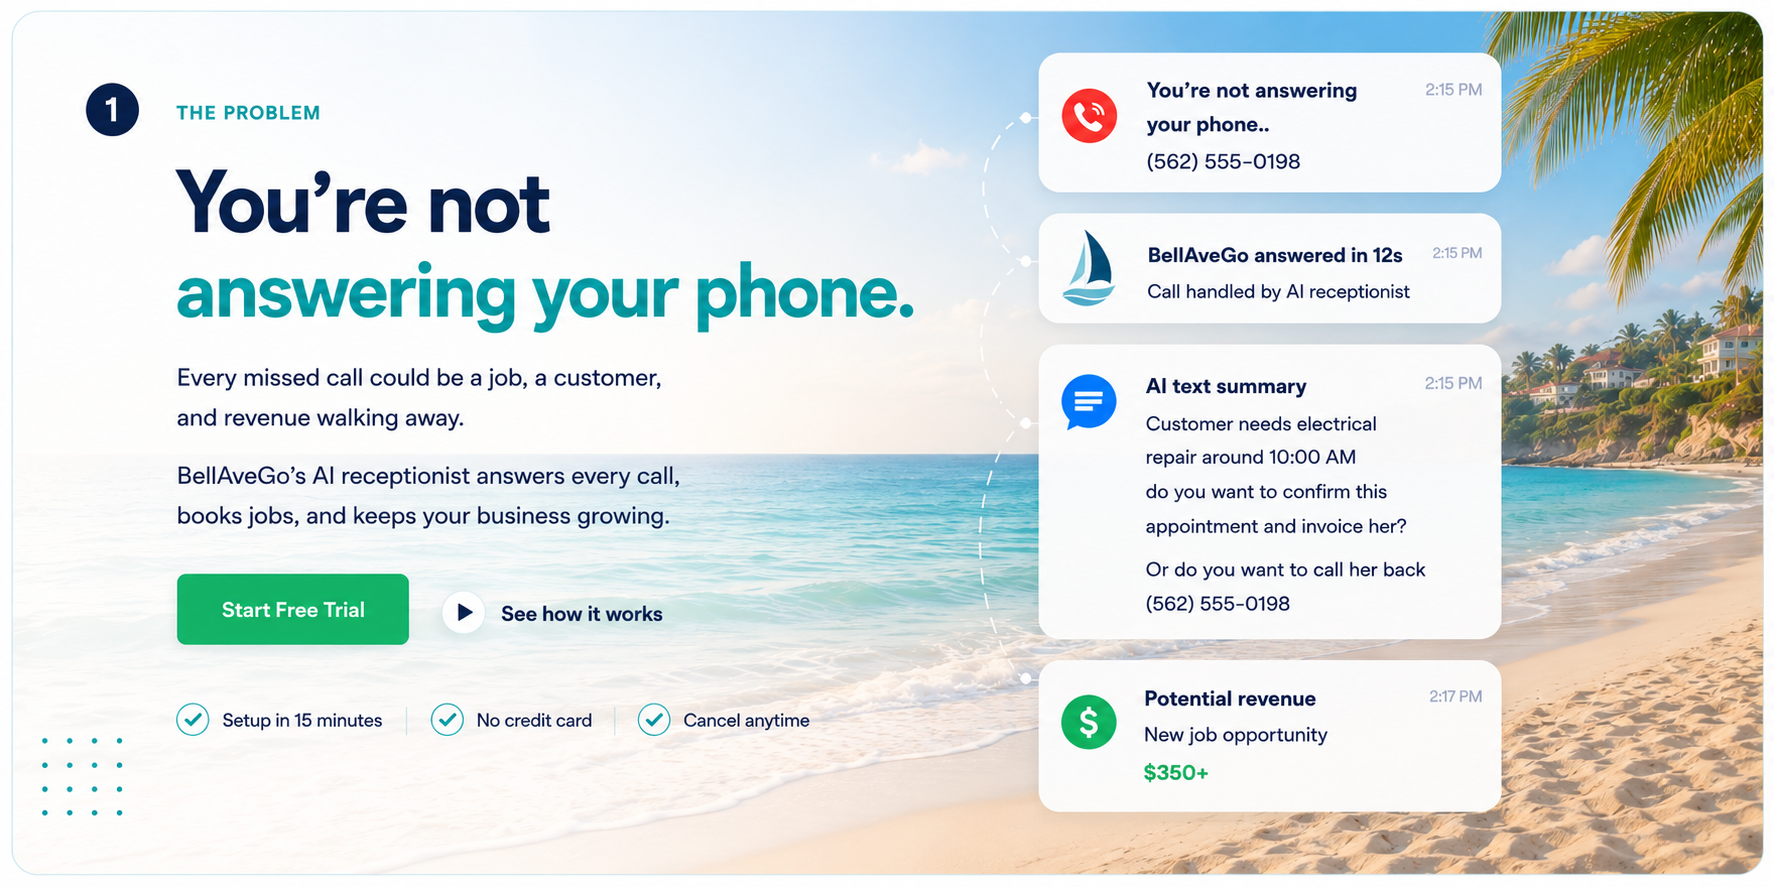
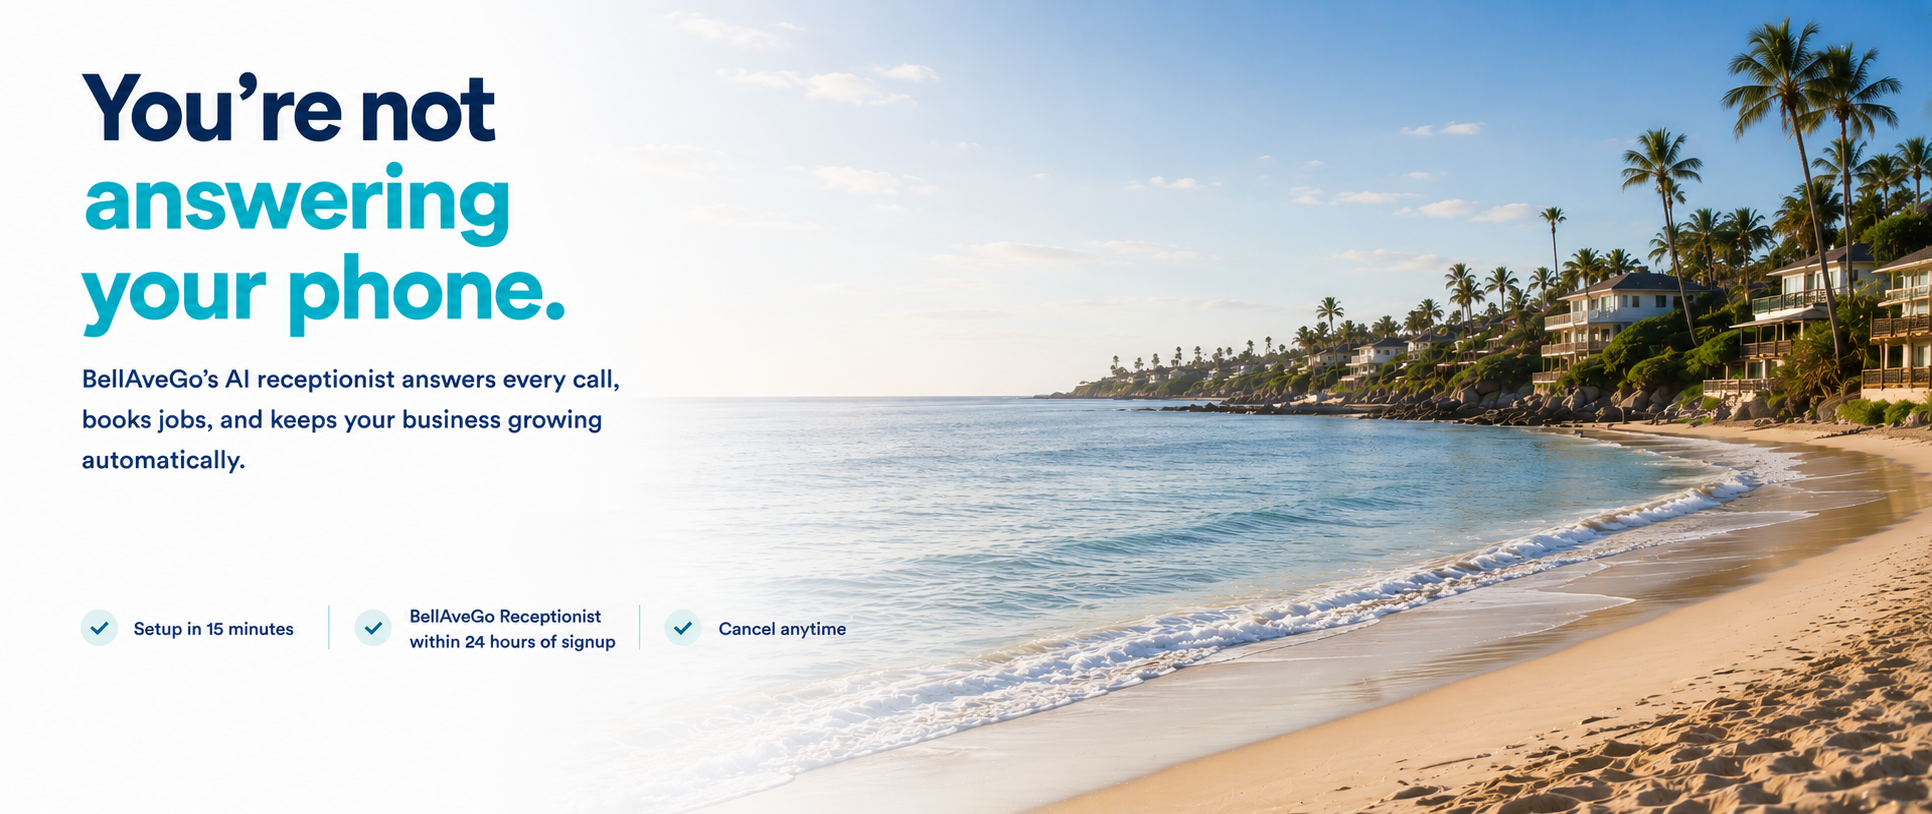
New hero image + real glowing Start Free Trial CTA above checkmarks
- New Landing Page 1.png pushed
- Replace transparent overlay with visible green gradient button
- Button positioned above three checkmarks (left: 1.8%, top: 58%)
- cta-pulse class: always-on glow, grow + lift + brighten on hover

diff --git a/src/app/page.tsx b/src/app/page.tsx
@@ -65,7 +65,7 @@ export default function HomePage() {
         <style>{`
           @keyframes ctaGlow {
             0%, 100% { box-shadow: 0 4px 18px rgba(34,197,94,0.42), 0 0 30px rgba(34,197,94,0.24); }
-            50%       { box-shadow: 0 4px 28px rgba(34,197,94,0.6), 0 0 48px rgba(34,197,94,0.37); }
+            50%       { box-shadow: 0 6px 32px rgba(34,197,94,0.65), 0 0 56px rgba(34,197,94,0.42); }
           }
           .cta-pulse {
             animation: ctaGlow 2.5s ease-in-out infinite;
@@ -75,24 +75,32 @@ export default function HomePage() {
           .cta-pulse:hover {
             animation-play-state: paused;
             transform: scale(1.06) translateY(-3px) !important;
-            box-shadow: 0 8px 38px rgba(34,197,94,0.66), 0 0 62px rgba(34,197,94,0.48) !important;
-            filter: brightness(1.1) !important;
+            box-shadow: 0 10px 44px rgba(34,197,94,0.72), 0 0 70px rgba(34,197,94,0.52) !important;
+            filter: brightness(1.12) !important;
           }
-          .lp-btn {
+          .lp-hero-cta {
             position: absolute;
-            display: block;
+            left: 1.8%;
+            top: 58%;
+            width: 21%;
+            height: 14%;
+            display: flex;
+            align-items: center;
+            justify-content: center;
+            background: linear-gradient(135deg, #22C55E 0%, #15A34A 100%);
             border-radius: 10px;
-            border: none;
-            background: transparent;
-            cursor: pointer;
             text-decoration: none;
-            padding: 0;
-            animation: ctaGlow 2.5s ease-in-out infinite;
-            transition: transform 0.18s ease, box-shadow 0.18s ease;
+            color: #fff;
+            font-weight: 800;
+            font-size: clamp(10px, 1.15vw, 16px);
+            letter-spacing: -0.2px;
+            border: none;
+            cursor: pointer;
+            gap: 6px;
           }
-          .lp-trial:hover, .lp-trial:active {
-            transform: scale(1.05) !important;
-            box-shadow: 0 0 0 3px rgba(34,197,94,0.45), 0 0 52px rgba(34,197,94,0.58) !important;
+          .lp-hero-cta:hover {
+            text-decoration: none;
+            color: #fff;
           }
         `}</style>
         <div style={{ position: 'relative', width: '100%', lineHeight: 0 }}>
@@ -106,9 +114,13 @@ export default function HomePage() {
           />
           <Link
             href={isSignedIn ? '/dashboard' : '/sign-up'}
-            className="lp-btn lp-trial"
-            style={{ left: '7.6%', top: '68%', width: '14%', height: '15%' }}
-          />
+            className="cta-pulse lp-hero-cta"
+          >
+            Start Free Trial
+            <svg width="14" height="14" viewBox="0 0 24 24" fill="none" stroke="currentColor" strokeWidth="2.5" strokeLinecap="round" strokeLinejoin="round">
+              <path d="M5 12h14M12 5l7 7-7 7"/>
+            </svg>
+          </Link>
         </div>
       </section>
 